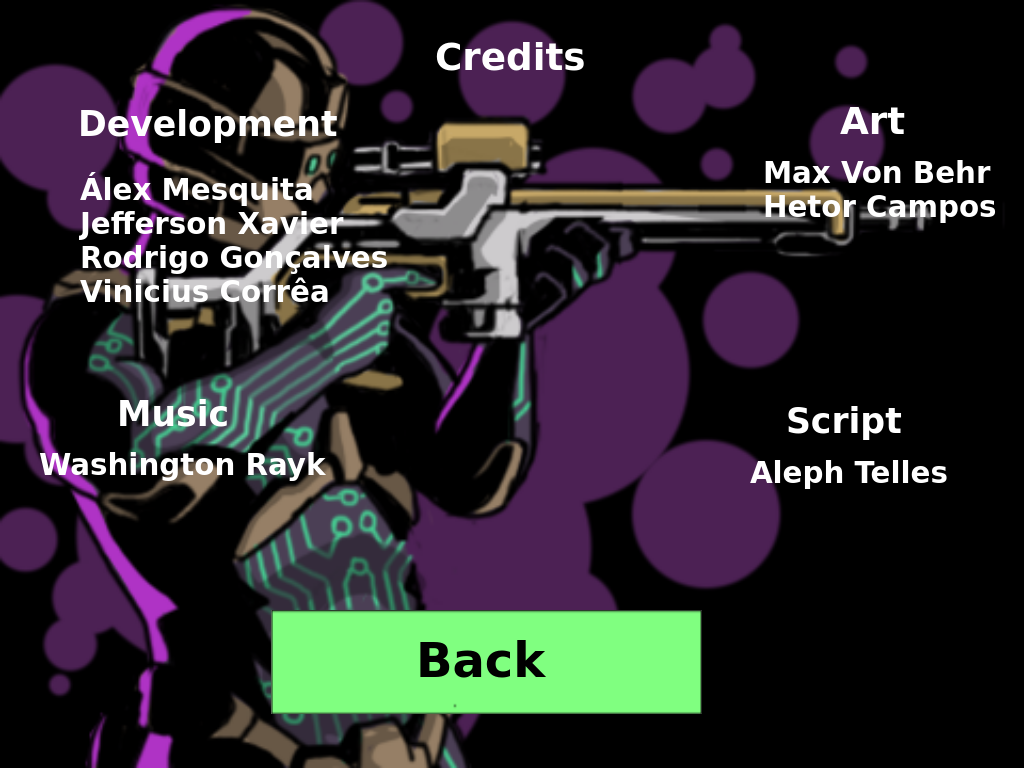
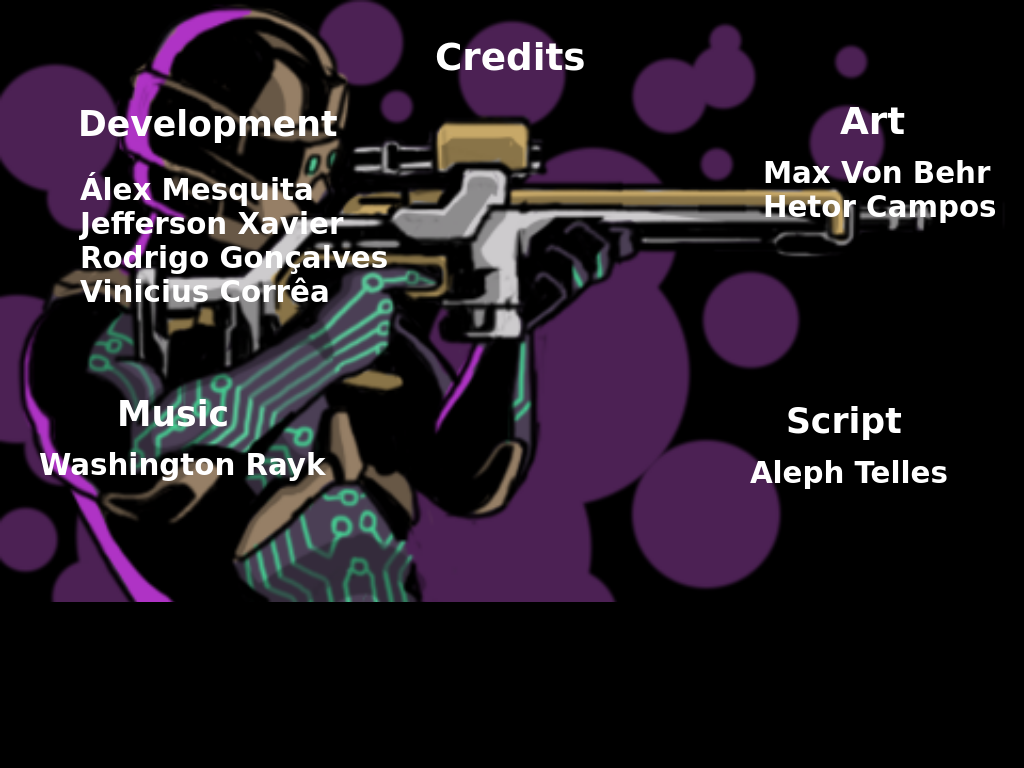
update menu images

Changed region(s): [[0.0312, 0.7812, 0.6875, 1.0]]

diff --git a/game/src/menu.cpp b/game/src/menu.cpp
@@ -17,11 +17,11 @@ Menu::Menu(const string& next, const string& image)
 
     m_start = new Button(this, "start", "res/images/buttons/start.png",
         X_BUTTON, X_BUTTON, W_BUTTON, H_BUTTON);
-    m_settings = new Button(this, "settings", "res/images/buttons/option.png",
+    m_settings = new Button(this, "settings", "res/images/buttons/settings.png",
         X_BUTTON, Y_BUTTON + SPACING, W_BUTTON, H_BUTTON);
-    m_credits = new Button(this, "credits", "res/images/buttons/option.png",
+    m_credits = new Button(this, "credits", "res/images/buttons/credits.png",
         X_BUTTON, Y_BUTTON + 2*SPACING, W_BUTTON, H_BUTTON);
-    m_exit = new Button(this, "exit", "res/images/buttons/quit.png",
+    m_exit = new Button(this, "exit", "res/images/buttons/exit.png",
         X_BUTTON, Y_BUTTON + 3*SPACING, W_BUTTON, H_BUTTON);
 
     m_start->add_observer(this);

diff --git a/game/src/credits.cpp b/game/src/credits.cpp
@@ -2,10 +2,10 @@
 #include "image.h"
 #include "resourcesmanager.h"
 
-#define X_BACK 273
+#define X_BACK 300
 #define Y_BACK 612
-#define W_BACK 428
-#define H_BACK 103
+#define W_BACK 304
+#define H_BACK 93
 
 Credits::Credits(const string& next, const string& image)
     : Level("", next), m_image(nullptr), m_back(nullptr)

diff --git a/game/src/settings.cpp b/game/src/settings.cpp
@@ -4,10 +4,10 @@
 #include "settings.h"
 #include <algorithm>
 
-#define X_BACK 49
+#define X_BACK 150
 #define Y_BACK 480
-#define W_BACK 428
-#define H_BACK 103
+#define W_BACK 304
+#define H_BACK 93
 #define X_UP_RESOLUTION 449
 #define Y_UP_RESOLUTION 169
 #define X_DOWN_RESOLUTION 449
